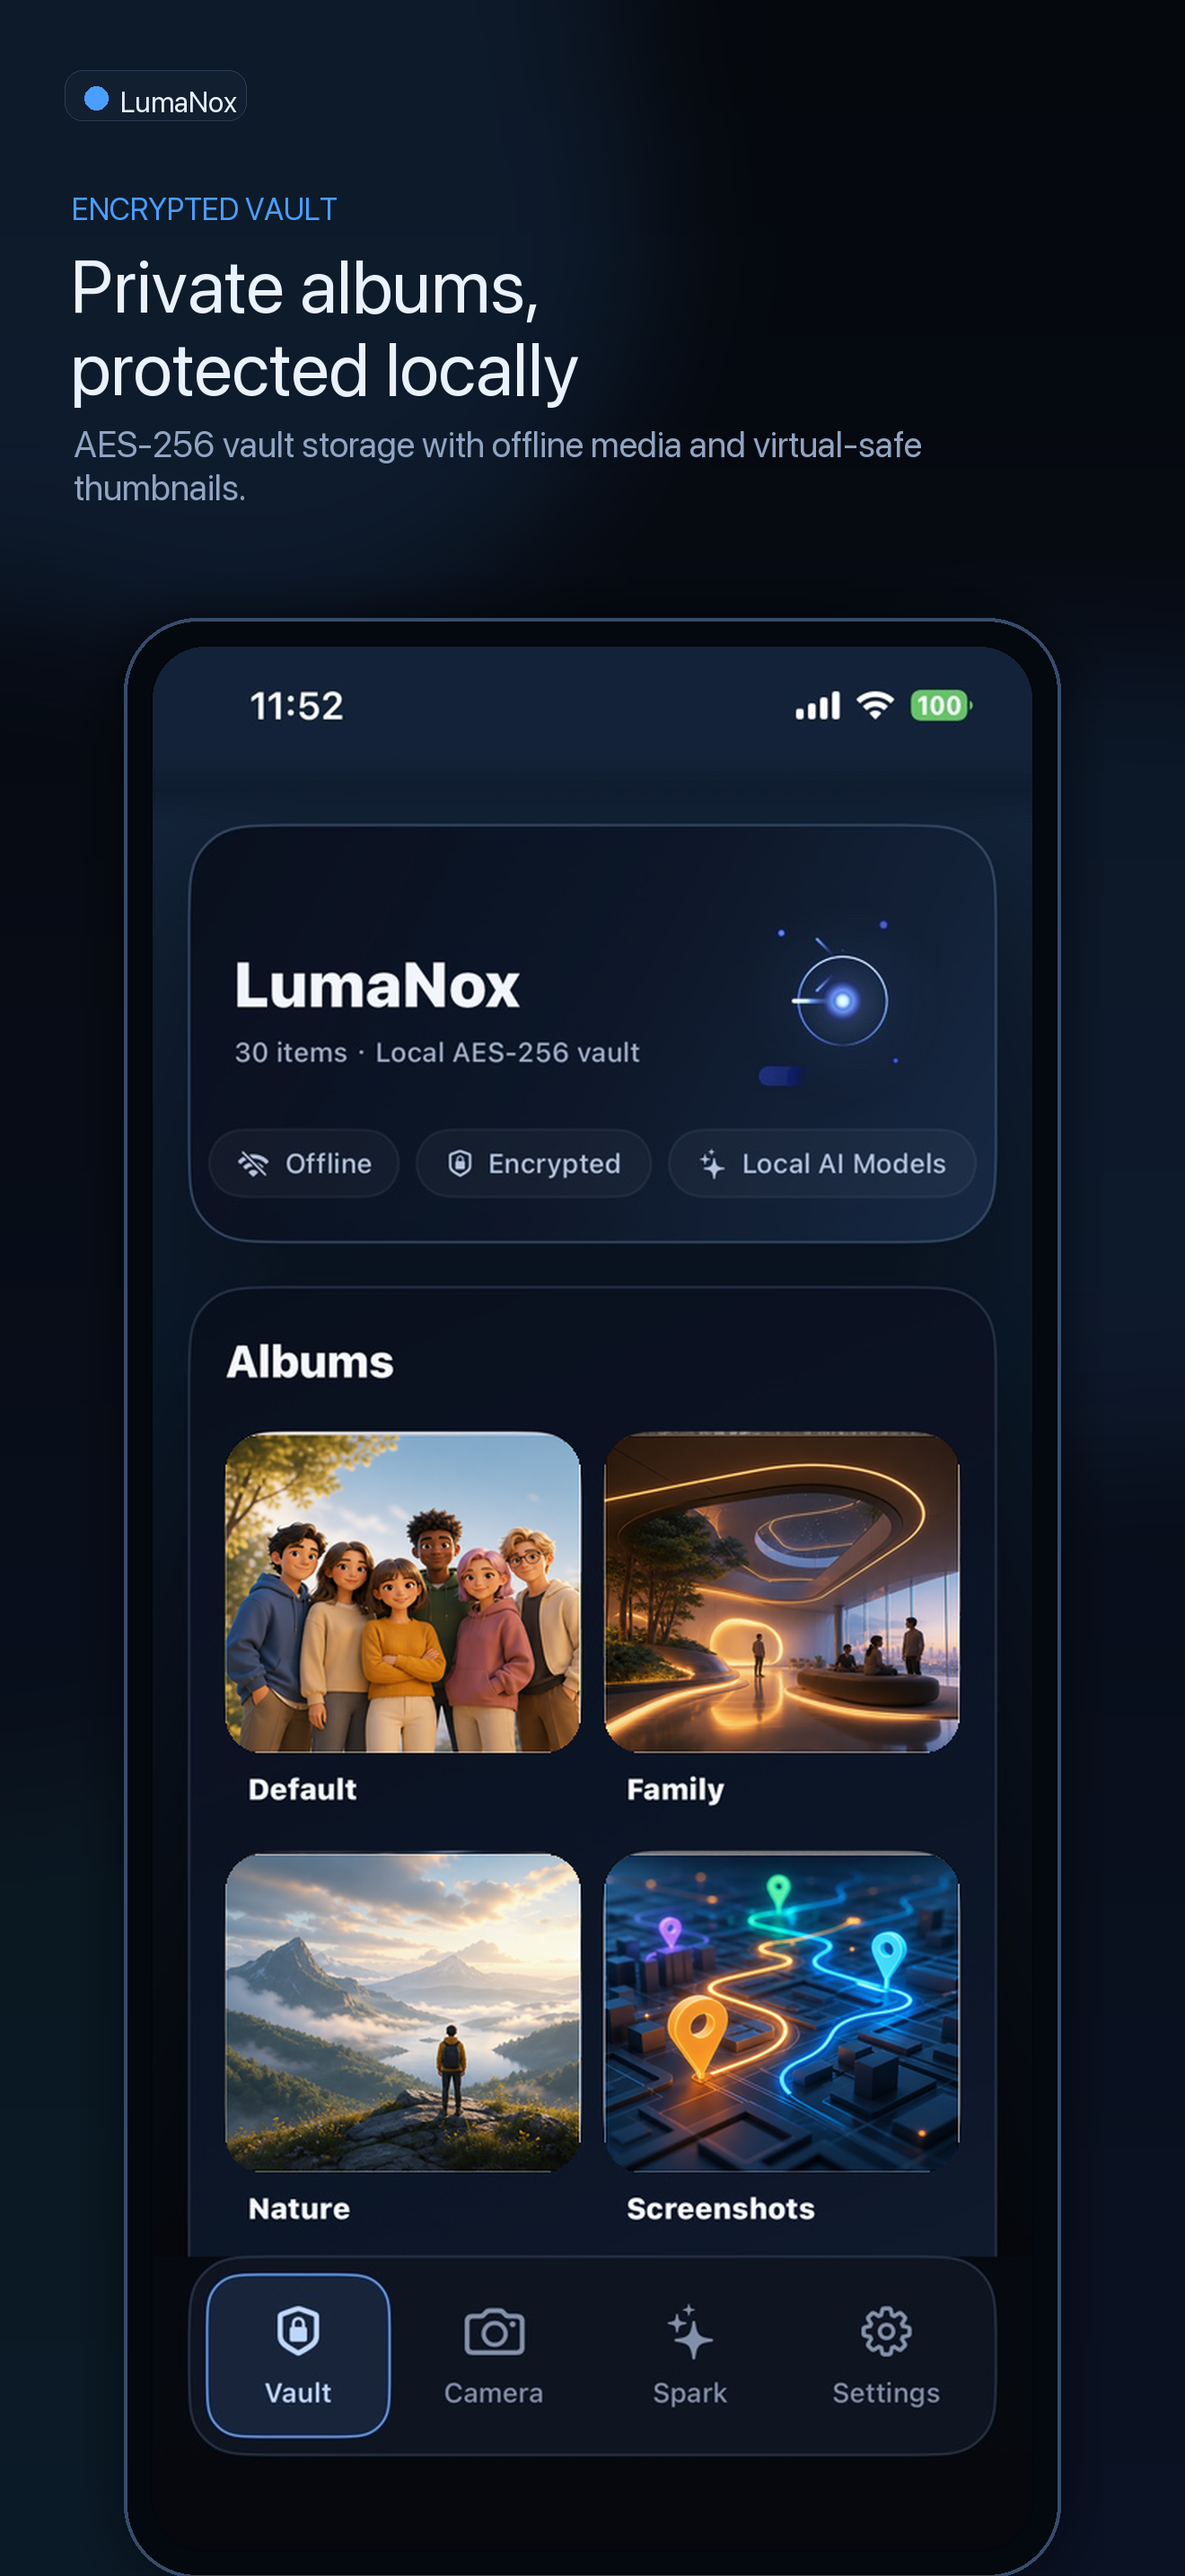
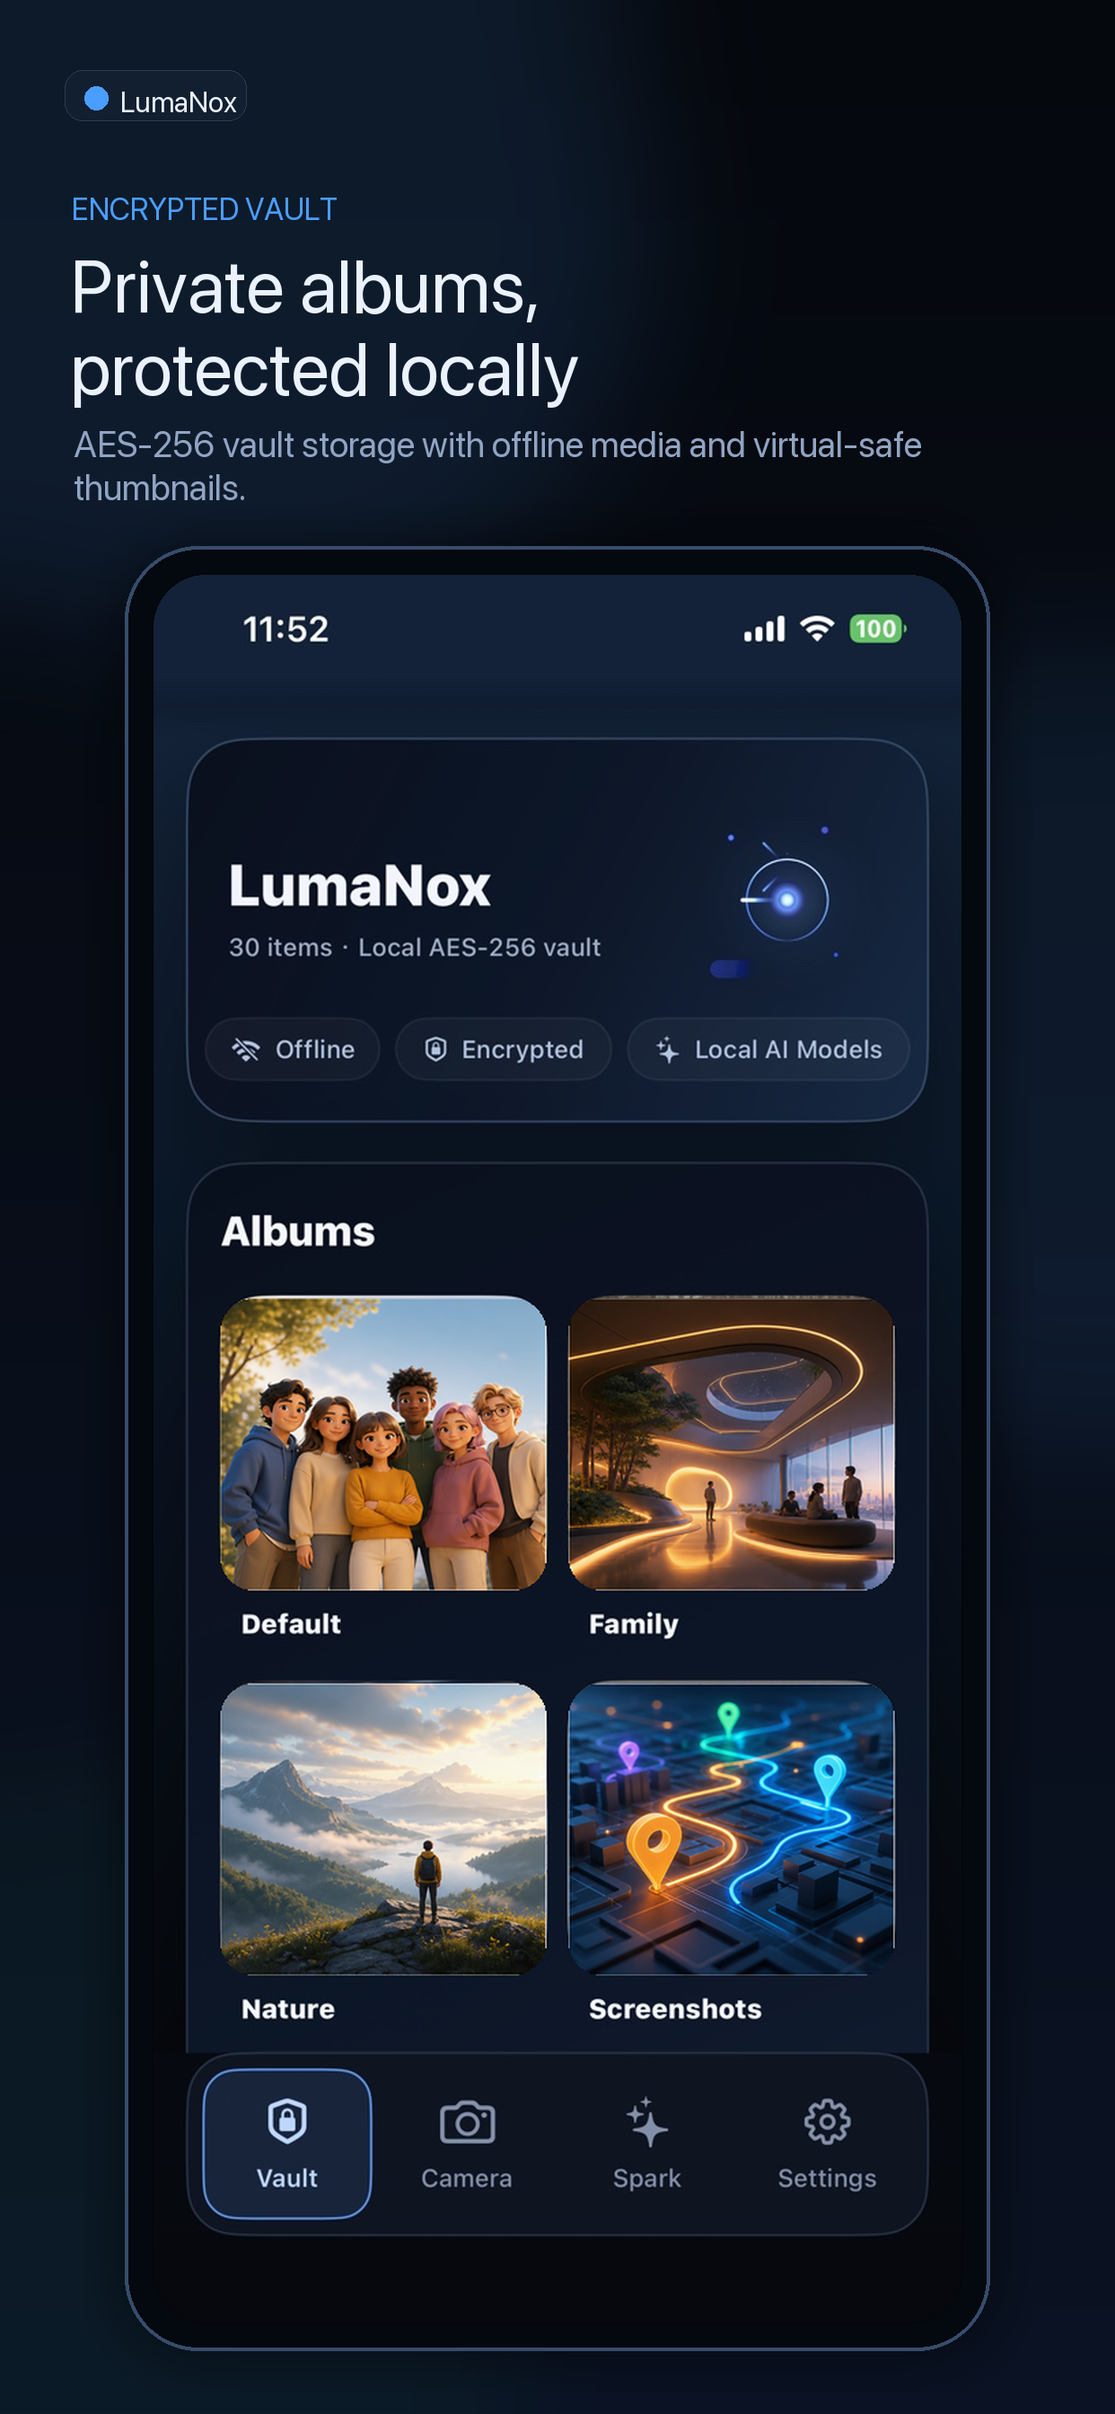
Resize App Store screenshots to accepted dimensions

diff --git a/marketing/app-store/generate_iphone_6_9_screenshots_apple_reg_111.py b/marketing/app-store/generate_iphone_6_9_screenshots_apple_reg_111.py
@@ -1,5 +1,5 @@
 #!/usr/bin/env python3
-"""Generate 6.9-inch iPhone App Store screenshots from apple-reg/111 captures."""
+"""Generate App Store accepted iPhone screenshots from apple-reg/111 captures."""
 from __future__ import annotations
 
 import os
@@ -8,7 +8,7 @@ from typing import Iterable
 
 from PIL import Image, ImageDraw, ImageFilter, ImageFont
 
-OUT_W, OUT_H = 1320, 2868
+OUT_W, OUT_H = 1242, 2688
 SOURCE_DIR = Path(os.environ.get("LUMANOX_SCREENSHOT_SOURCE_DIR", "/Users/wanhongbo/workspace/apple-reg/111"))
 SCRIPT_DIR = Path(__file__).resolve().parent
 OUT_DIR = SCRIPT_DIR / "iphone_6_9_screenshots_en_apple_reg_111"
@@ -202,7 +202,7 @@ def sanitize_capture(path: Path) -> Image.Image:
 
 
 def device_frame(screen: Image.Image) -> Image.Image:
-    screen_w, screen_h = 980, 2119
+    screen_w, screen_h = 900, 1946
     outer_w, outer_h = screen_w + 64, screen_h + 64
     shell = Image.new("RGBA", (outer_w + 96, outer_h + 96), (0, 0, 0, 0))
     shadow = Image.new("RGBA", shell.size, (0, 0, 0, 0))
@@ -252,7 +252,7 @@ def build_slide(spec: tuple[str, str, str, str, str, tuple[int, int, int]]) -> I
 
     capture = sanitize_capture(SOURCE_DIR / source_name)
     framed = device_frame(capture)
-    canvas.alpha_composite(framed, ((OUT_W - framed.width) // 2, 640))
+    canvas.alpha_composite(framed, ((OUT_W - framed.width) // 2, 560))
     return canvas.convert("RGB")
 
 

diff --git a/marketing/app-store/iphone_6_9_screenshots_en_apple_reg_111/README.md b/marketing/app-store/iphone_6_9_screenshots_en_apple_reg_111/README.md
@@ -1,4 +1,4 @@
-# LumaNox App Store 6.9-inch Screenshots
+# LumaNox App Store iPhone Screenshots
 
 Generated by:
 
@@ -12,7 +12,7 @@ Default source directory:
 /Users/wanhongbo/workspace/apple-reg/111
 ```
 
-Output size: `1320x2868` PNG, portrait, for the iPhone 6.9-inch App Store screenshot slot.
+Output size: `1242x2688` PNG, portrait, matching an App Store Connect accepted iPhone screenshot size.
 
 ## Screenshot Set
 
